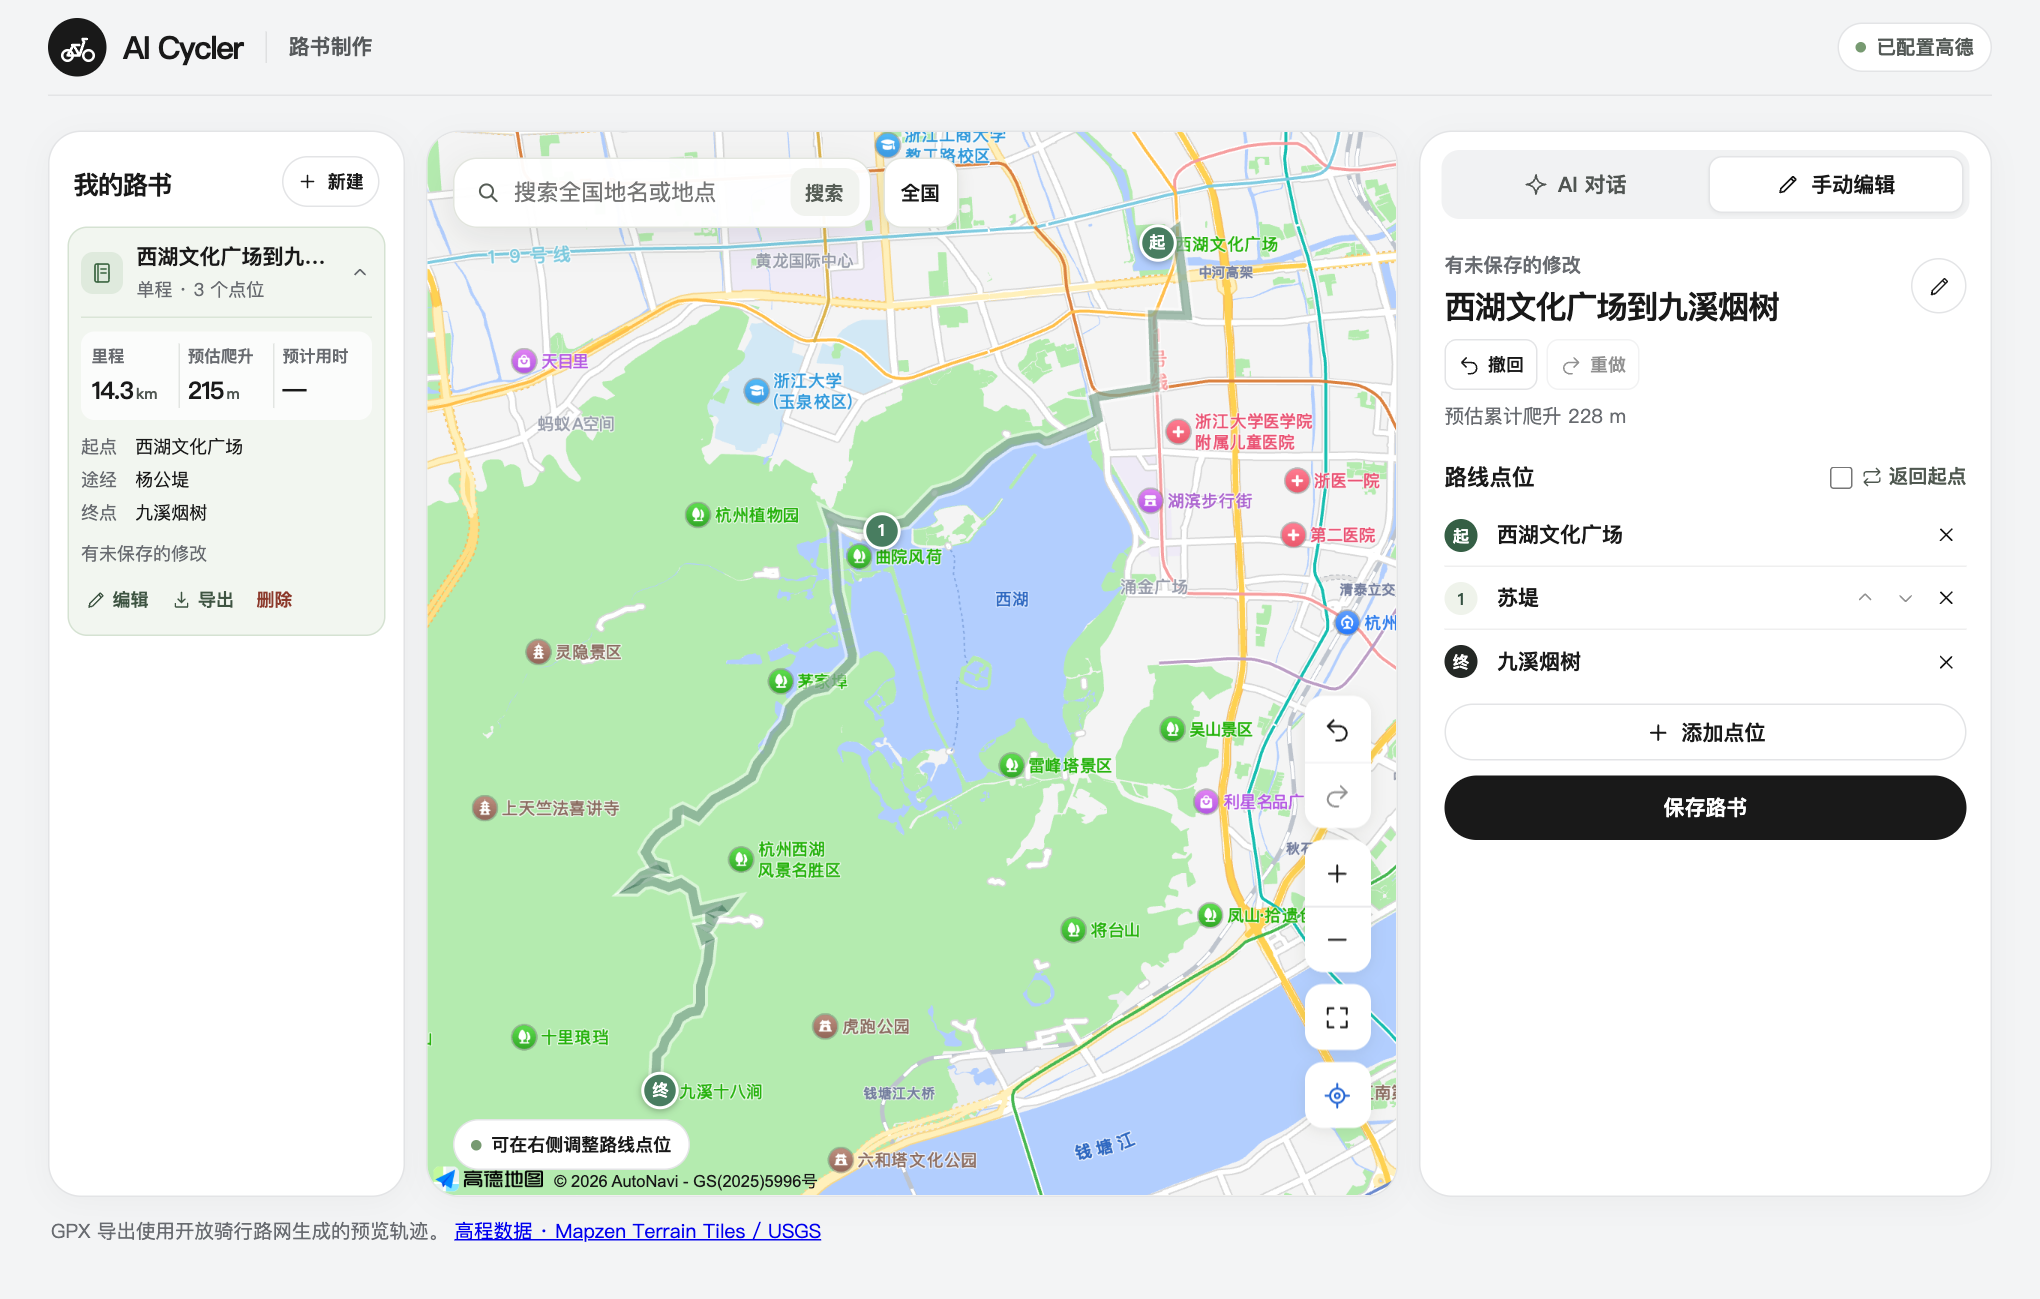
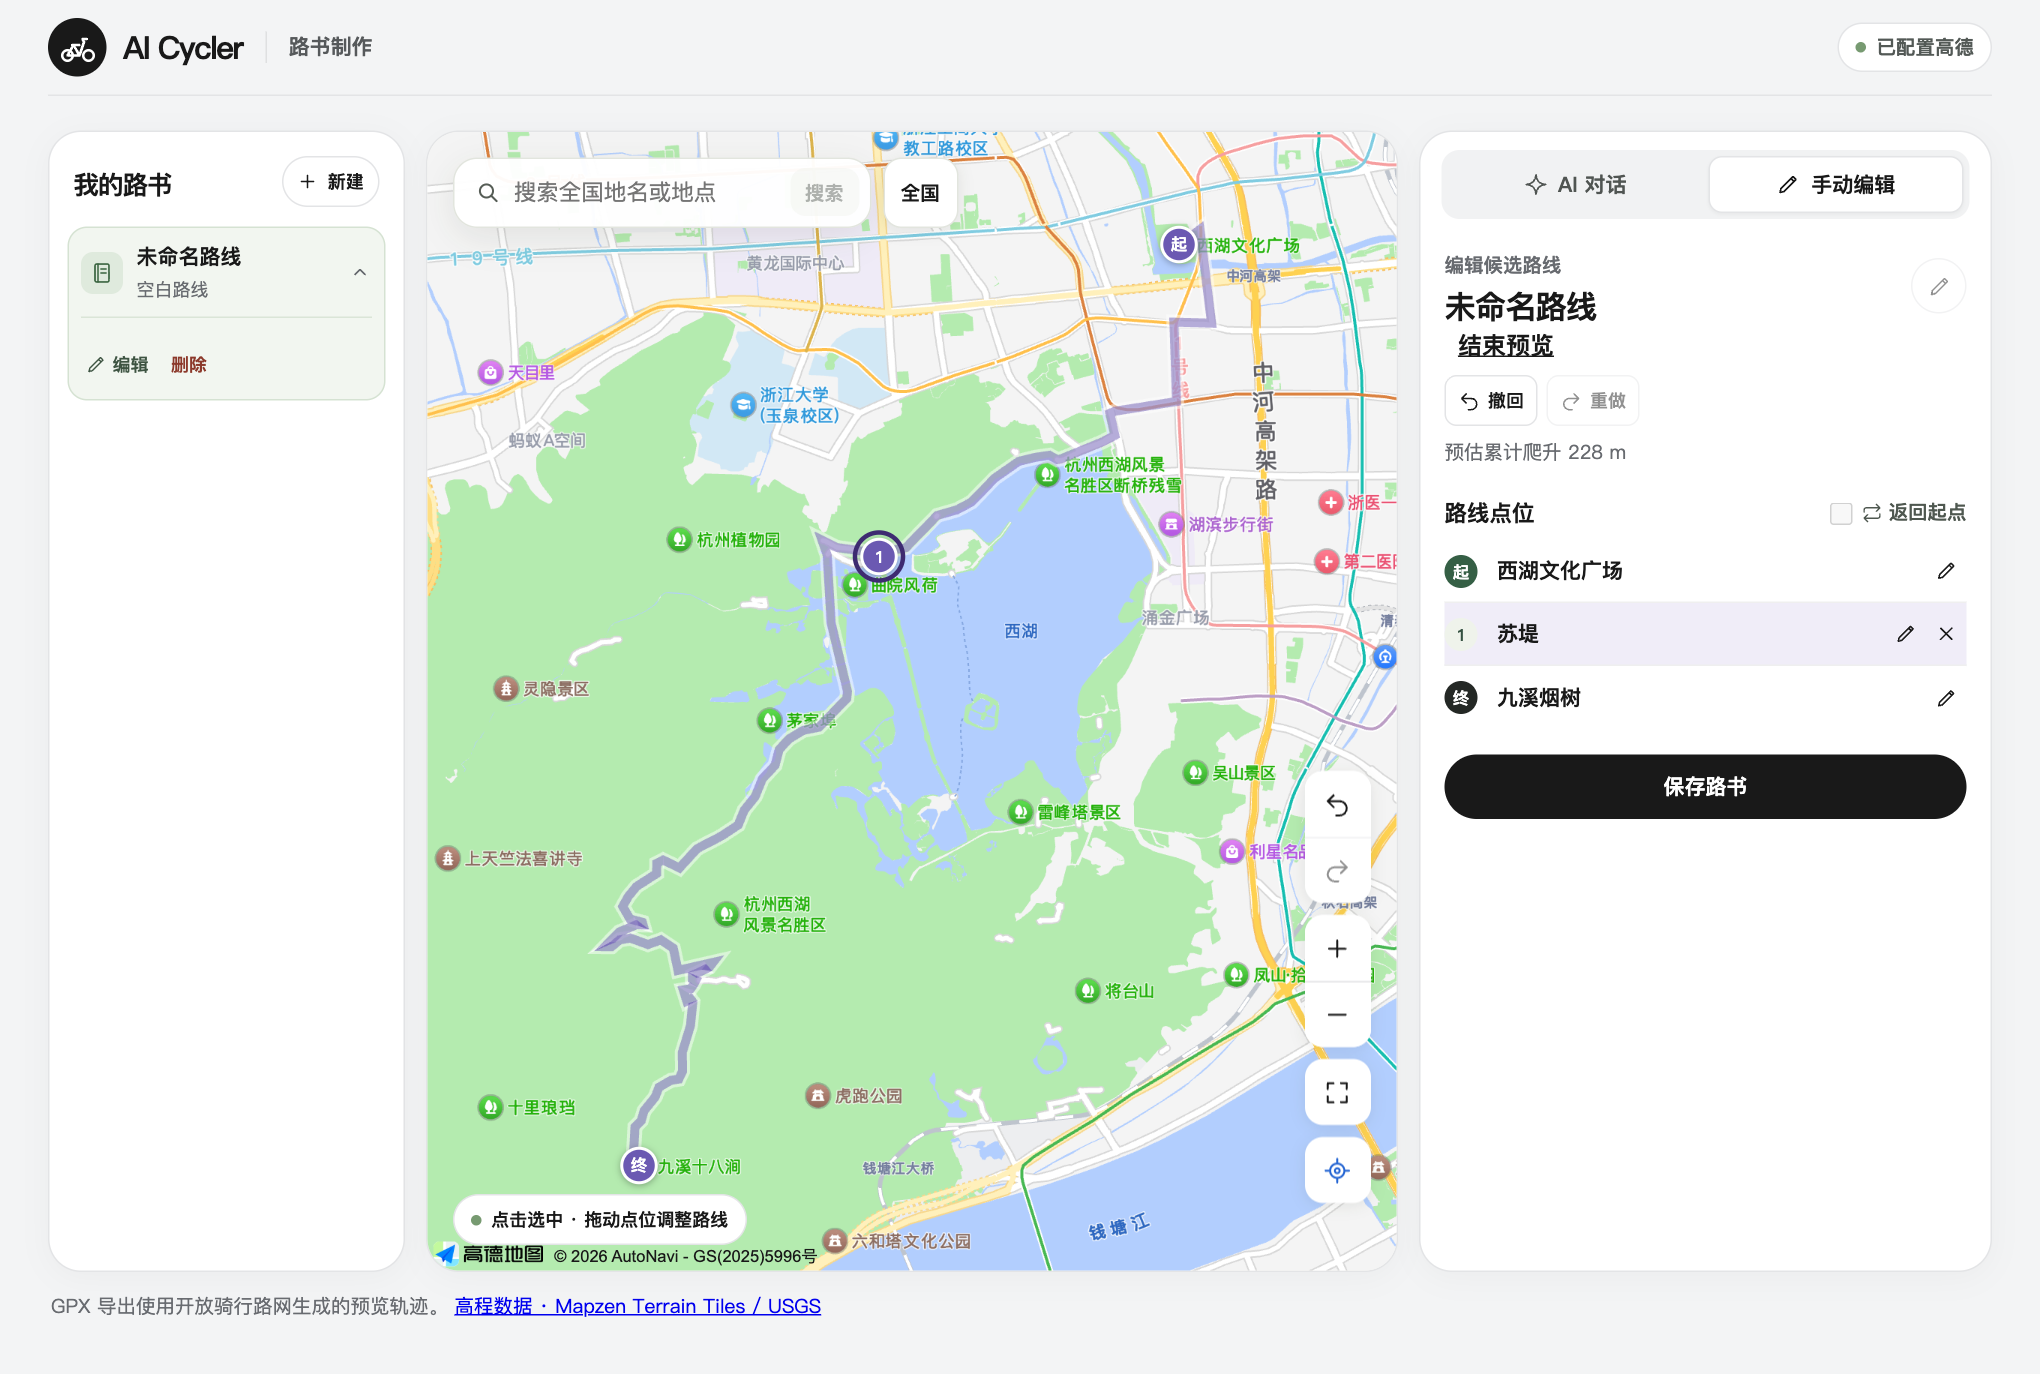
docs: show point selection and combined route editing

diff --git a/README.md b/README.md
@@ -14,11 +14,15 @@
 
 ![首轮按大致里程和开放终点生成候选，追问后在地图上预览经杨公堤到九溪烟树的路线](docs/screenshots/ai-planning.png)
 
-### 在地图上调整路书
+### 选点修改，随时切换手动编辑和 AI 对话
 
-在「手动编辑」中拖动地图标记，或搜索地点来添加、替换点位。图中将途经点从杨公堤换成了苏堤，地图已重新算路，右侧仍可撤回、重做，或点击「保存路书」确认修改。
+**手动调整 AI 生成的候选。** 预览时可以直接拖动地图标记，也可以在「手动编辑」里搜索地点替换点位，或删除途经点。下图把杨公堤换成了苏堤，路线已重新计算，仍可撤回或重做。
 
-![手动编辑面板显示替换后的苏堤途经点、撤回按钮和待保存路线](docs/screenshots/manual-editing.png)
+![手动编辑同一条候选，在预览中将途经点替换为苏堤](docs/screenshots/manual-editing.png)
+
+**选中点位，接着用对话修改。** 切回「AI 对话」后，刚改好的苏堤仍在当前候选里。点击地图标记或候选卡片里的点位，再说「把这个点改成杨公堤」，助手就会在当前候选上调整选中的点。可以交替使用两种方式，满意后再保存到「我的路书」。
+
+![切回 AI 对话后选中地图上的苏堤，输入把这个点改成杨公堤](docs/screenshots/selected-point-chat.png)
 
 ### 预览并下载 GPX
 
